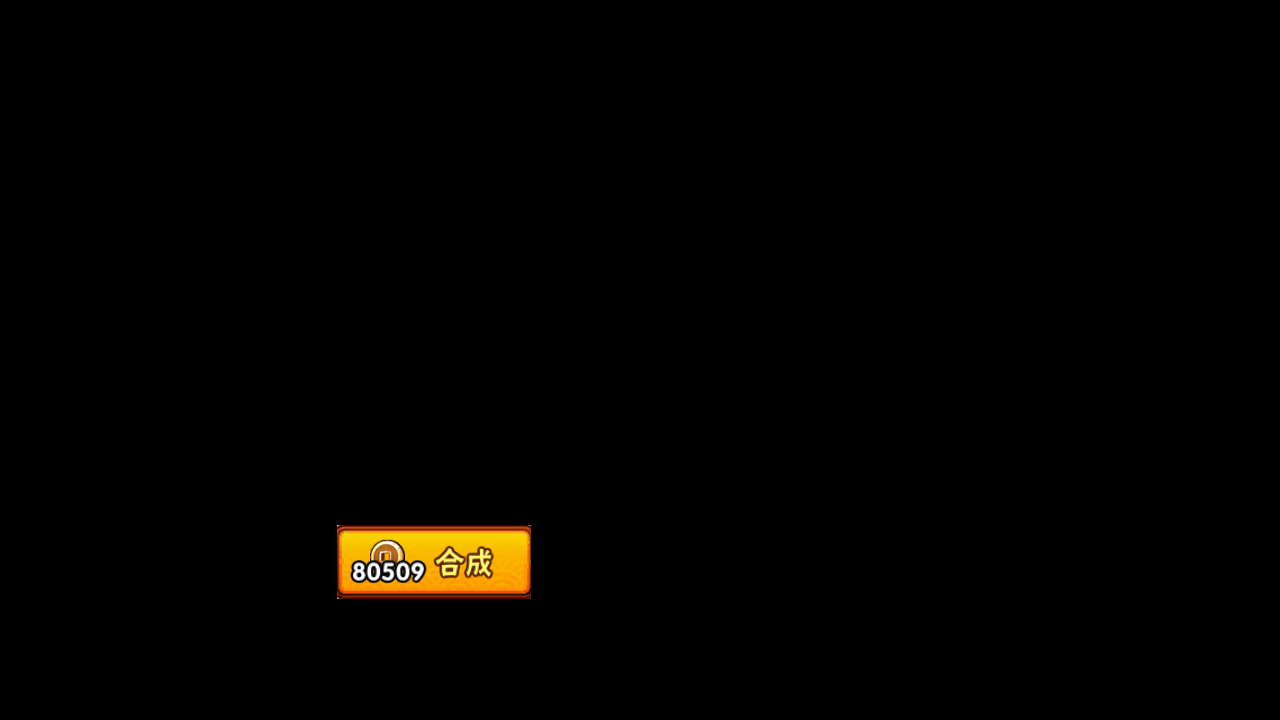
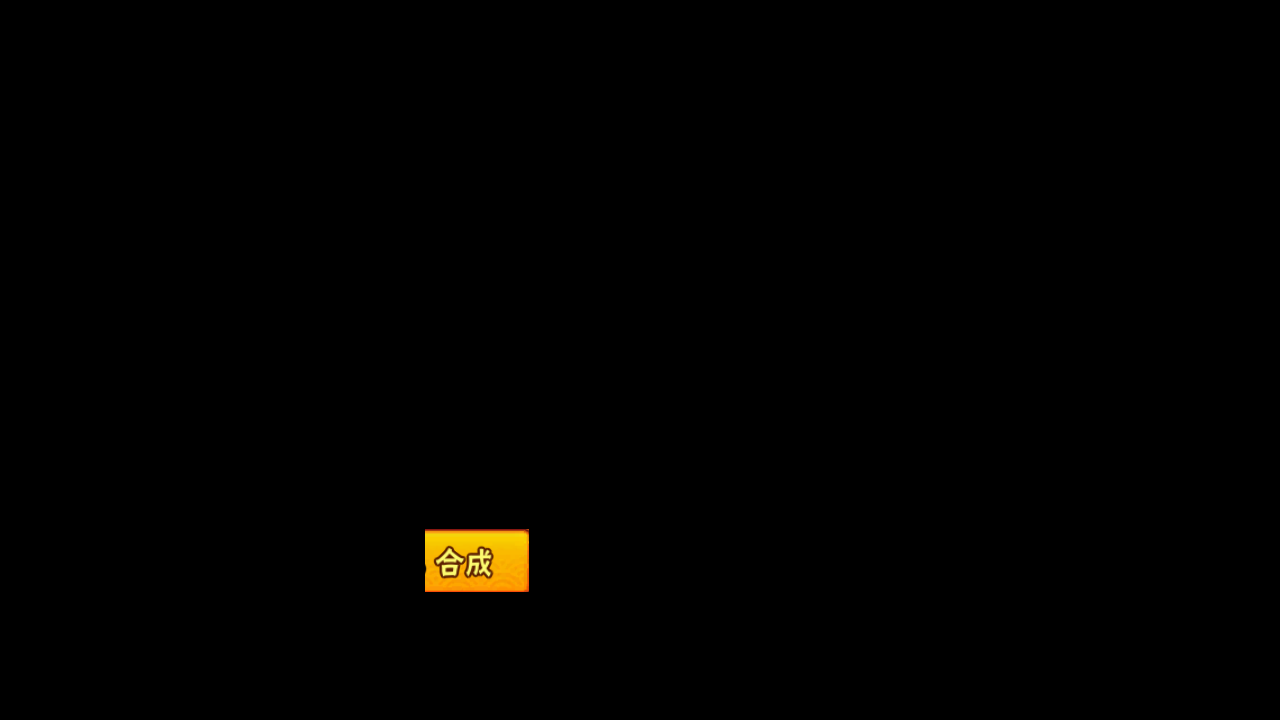
fix(assets): update STUFF_SYNTHETIC_BUTTON

Changed region(s): [[0.25, 0.7028, 0.4062, 0.8556]]

diff --git a/tasks/tili/assets/assets_tili_equipment.py b/tasks/tili/assets/assets_tili_equipment.py
@@ -408,10 +408,10 @@ STUFF_SYNTHETIC_BUTTON = ButtonWrapper(
     name='STUFF_SYNTHETIC_BUTTON',
     cn=Button(
         file='./assets/cn/tili/equipment/STUFF_SYNTHETIC_BUTTON.png',
-        area=(337, 525, 531, 599),
-        search=(317, 505, 551, 619),
-        color=(201, 137, 24),
-        button=(337, 525, 531, 599),
+        area=(425, 529, 529, 592),
+        search=(405, 509, 549, 612),
+        color=(229, 162, 13),
+        button=(425, 529, 529, 592),
     ),
     en=None,
 )
